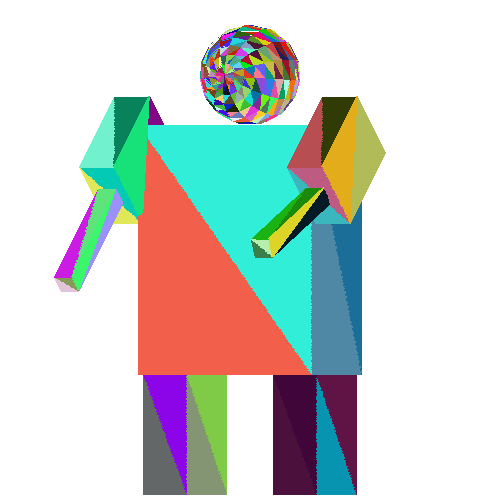
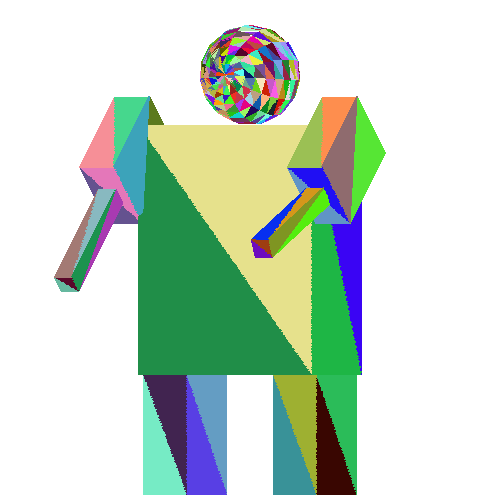
I think I made a few changes, I don't actually remember

diff --git a/draw.c b/draw.c
@@ -26,7 +26,7 @@ void scanline_convert( struct matrix *points, int i, screen s, zbuffer zb ) {
   color c = {rand() % 255, rand() & 255, rand() % 255};
 
   double xt, yt, zt, xm, ym, zm, xb, yb, zbo;
-  double x0, x1, x2, dx, dx0, dx1, z0, z1, z2, dz, dz0, dz1, y0, y1;
+  double x0, x1, x2, dx, dx0, dx1, z0, z1, z2, dz, dz0, dz1, y0, y1, y2;
 
   yt = LONG_MIN;
   yb = LONG_MAX;
@@ -65,7 +65,8 @@ void scanline_convert( struct matrix *points, int i, screen s, zbuffer zb ) {
   x1 = xb;
   x2 = xm;
   y0 = yb;
-  y1 = yt;
+  y1 = ym;
+  y2 = yt;
   z0 = zbo;
   z1 = zbo;
   z2 = zm;
@@ -79,19 +80,13 @@ void scanline_convert( struct matrix *points, int i, screen s, zbuffer zb ) {
   dx1 = (xt - xm) / (yt - ym);
   dz1 = (zt - zm) / (yt - ym);
 
-  if(yb == ym){
-    x1 = xm;
-    z1 = zm;
-    y0 = ym;
-    dx0 = dx1;
-    dz0 = dz1;
-  }
+  if(yb == ym) y0 = y1;
 
-  printf("%lf %lf %lf %lf %lf %lf\n", dx, dz, dx0, dz0, dx1, dz1);
-  printf("Bottom: %lf %lf\nMiddle: %lf %lf\nTop: %lf %lf\n", xb, yb, xm, ym, xt, yt);
+  //printf("%lf %lf %lf %lf %lf %lf\n", dx, dz, dx0, dz0, dx1, dz1);
+  //printf("Bottom: %lf %lf\nMiddle: %lf %lf\nTop: %lf %lf\n", xb, yb, xm, ym, xt, yt);
 
 
-  while(y0 < ym){
+  while(y0 < y1){
     draw_line(x0, y0, z0, x1, y0, z1, s, zb, c);
 
     //printf("%lf %lf %lf %lf %lf %lf\n", x0, y0, z0, x1, y0, z1);
@@ -105,7 +100,7 @@ void scanline_convert( struct matrix *points, int i, screen s, zbuffer zb ) {
     y0 += 1;
 
   }
-  while(y0 < yt){
+  while(y0 < y2){
     draw_line(x0, y0, z0, x2, y0, z2, s, zb, c);
 
     //printf("%lf %lf %lf %lf %lf %lf\n", x0, y0, z0, x1, y0, z1);
@@ -118,7 +113,7 @@ void scanline_convert( struct matrix *points, int i, screen s, zbuffer zb ) {
 
     y0 += 1;
   }
-  printf("\n");
+  //printf("\n");
   
 }
 

diff --git a/draw.h b/draw.h
@@ -8,7 +8,7 @@
 void scanline_convert( struct matrix *points, int i, screen s, zbuffer zb );
 
 //polygon organization
-void add_polygons( struct matrix * polys,
+void add_polygon( struct matrix * polys,
                    double x0, double y0, double z0,
                    double x1, double y1, double z1,
                    double x2, double y2, double z2);

diff --git a/parser.c b/parser.c
@@ -2,6 +2,7 @@
 #include <stdlib.h>
 #include <string.h>
 #include <math.h>
+#include <time.h>
 
 #include "ml6.h"
 #include "display.h"
@@ -93,6 +94,7 @@ void parse_file ( char * filename,
   c.red = 0;
   c.green = 255;
   c.blue = 255;
+  srand(time(0));
 
   if ( strcmp(filename, "stdin") == 0 )
     f = stdin;
